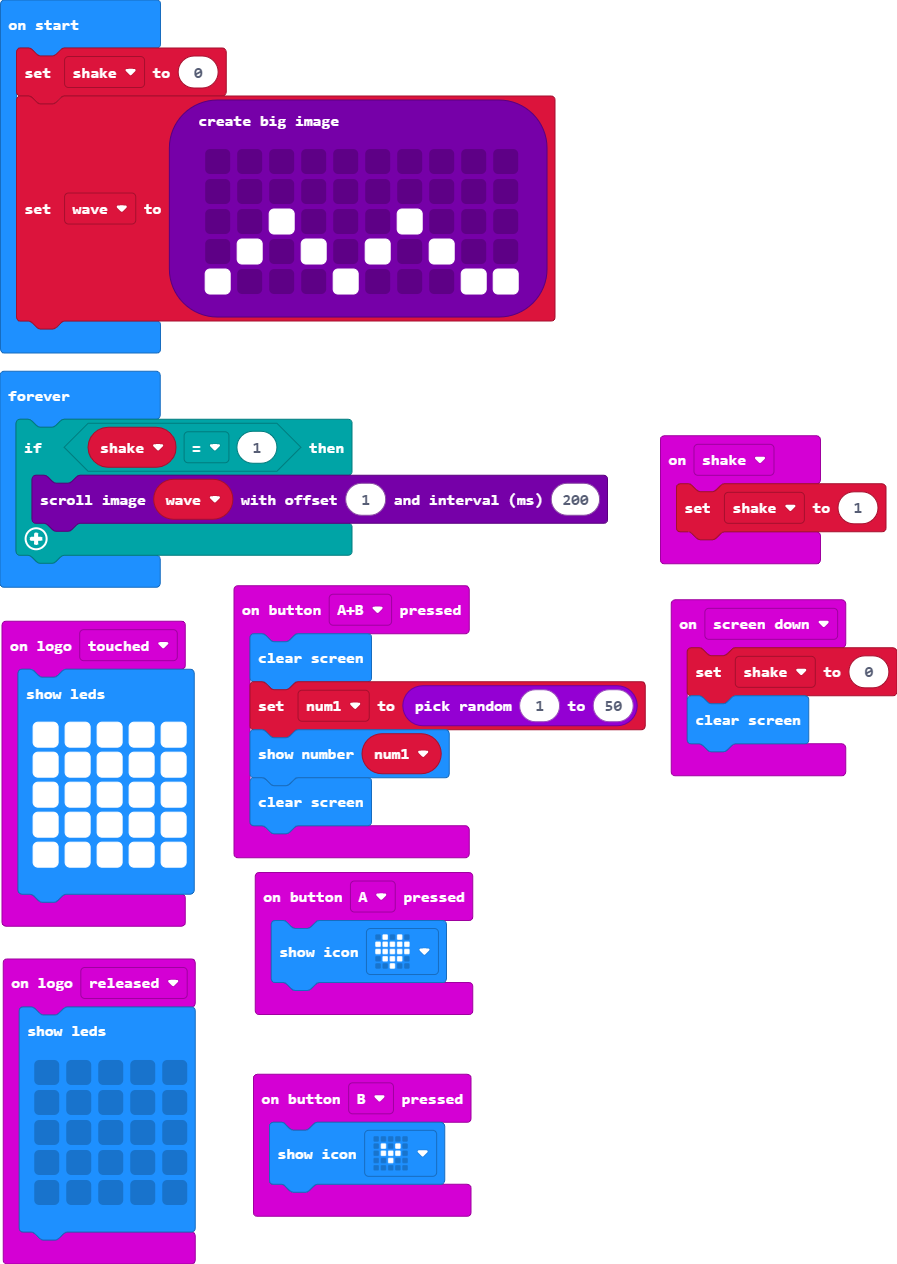
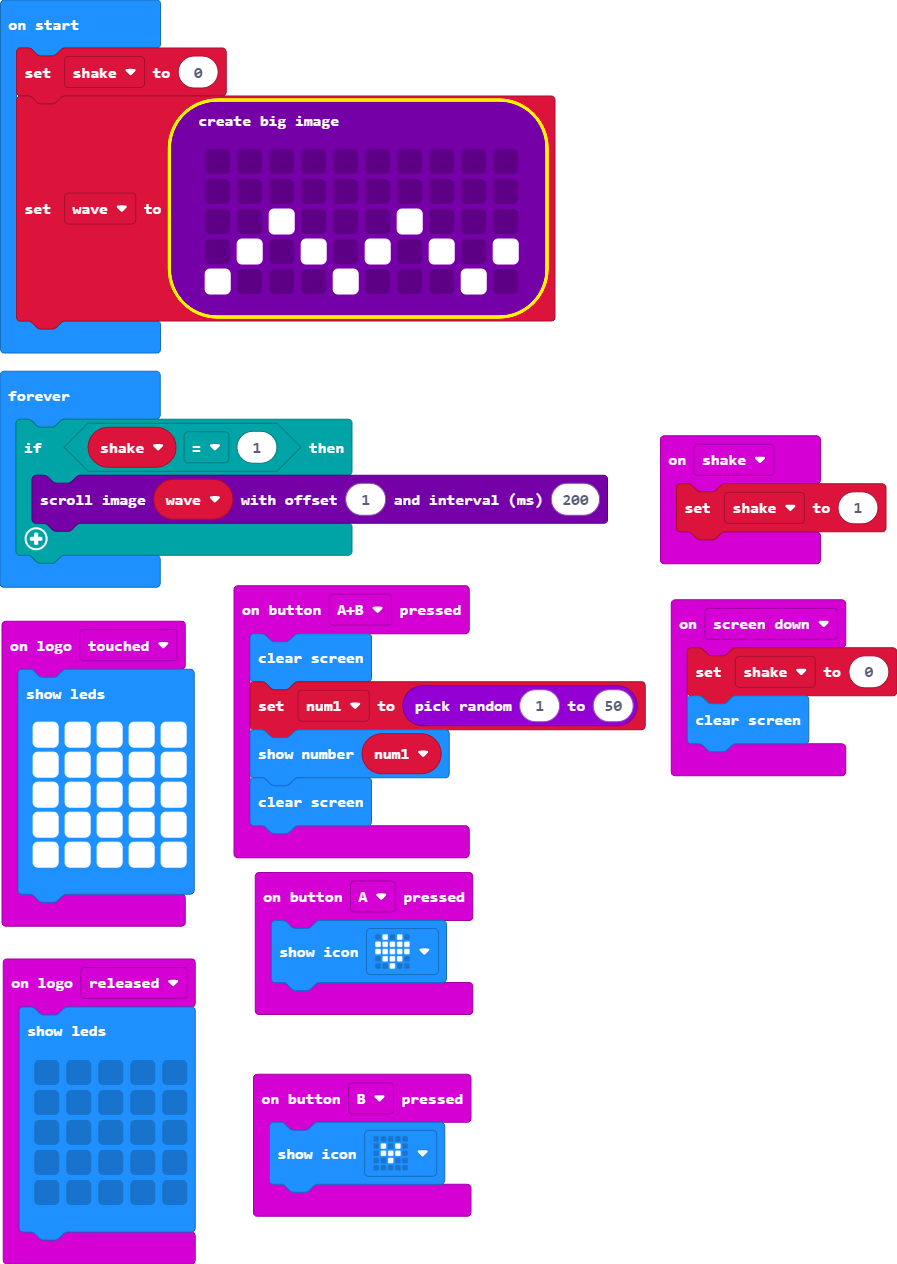
Update main.blocks, main.ts

Changed region(s): [[0.2497, 0.0926, 0.6243, 0.2777], [0.2185, 0.0617, 0.5931, 0.0926], [0.1873, 0.0926, 0.2185, 0.2468]]

diff --git a/main.ts b/main.ts
@@ -42,8 +42,8 @@ let wave = images.createBigImage(`
     . . . . . . . . . .
     . . . . . . . . . .
     . . # . . . # . . .
-    . # . # . # . # . .
-    # . . . # . . . # #
+    . # . # . # . # . #
+    # . . . # . . . # .
     `)
 basic.forever(function () {
     if (shake == 1) {
